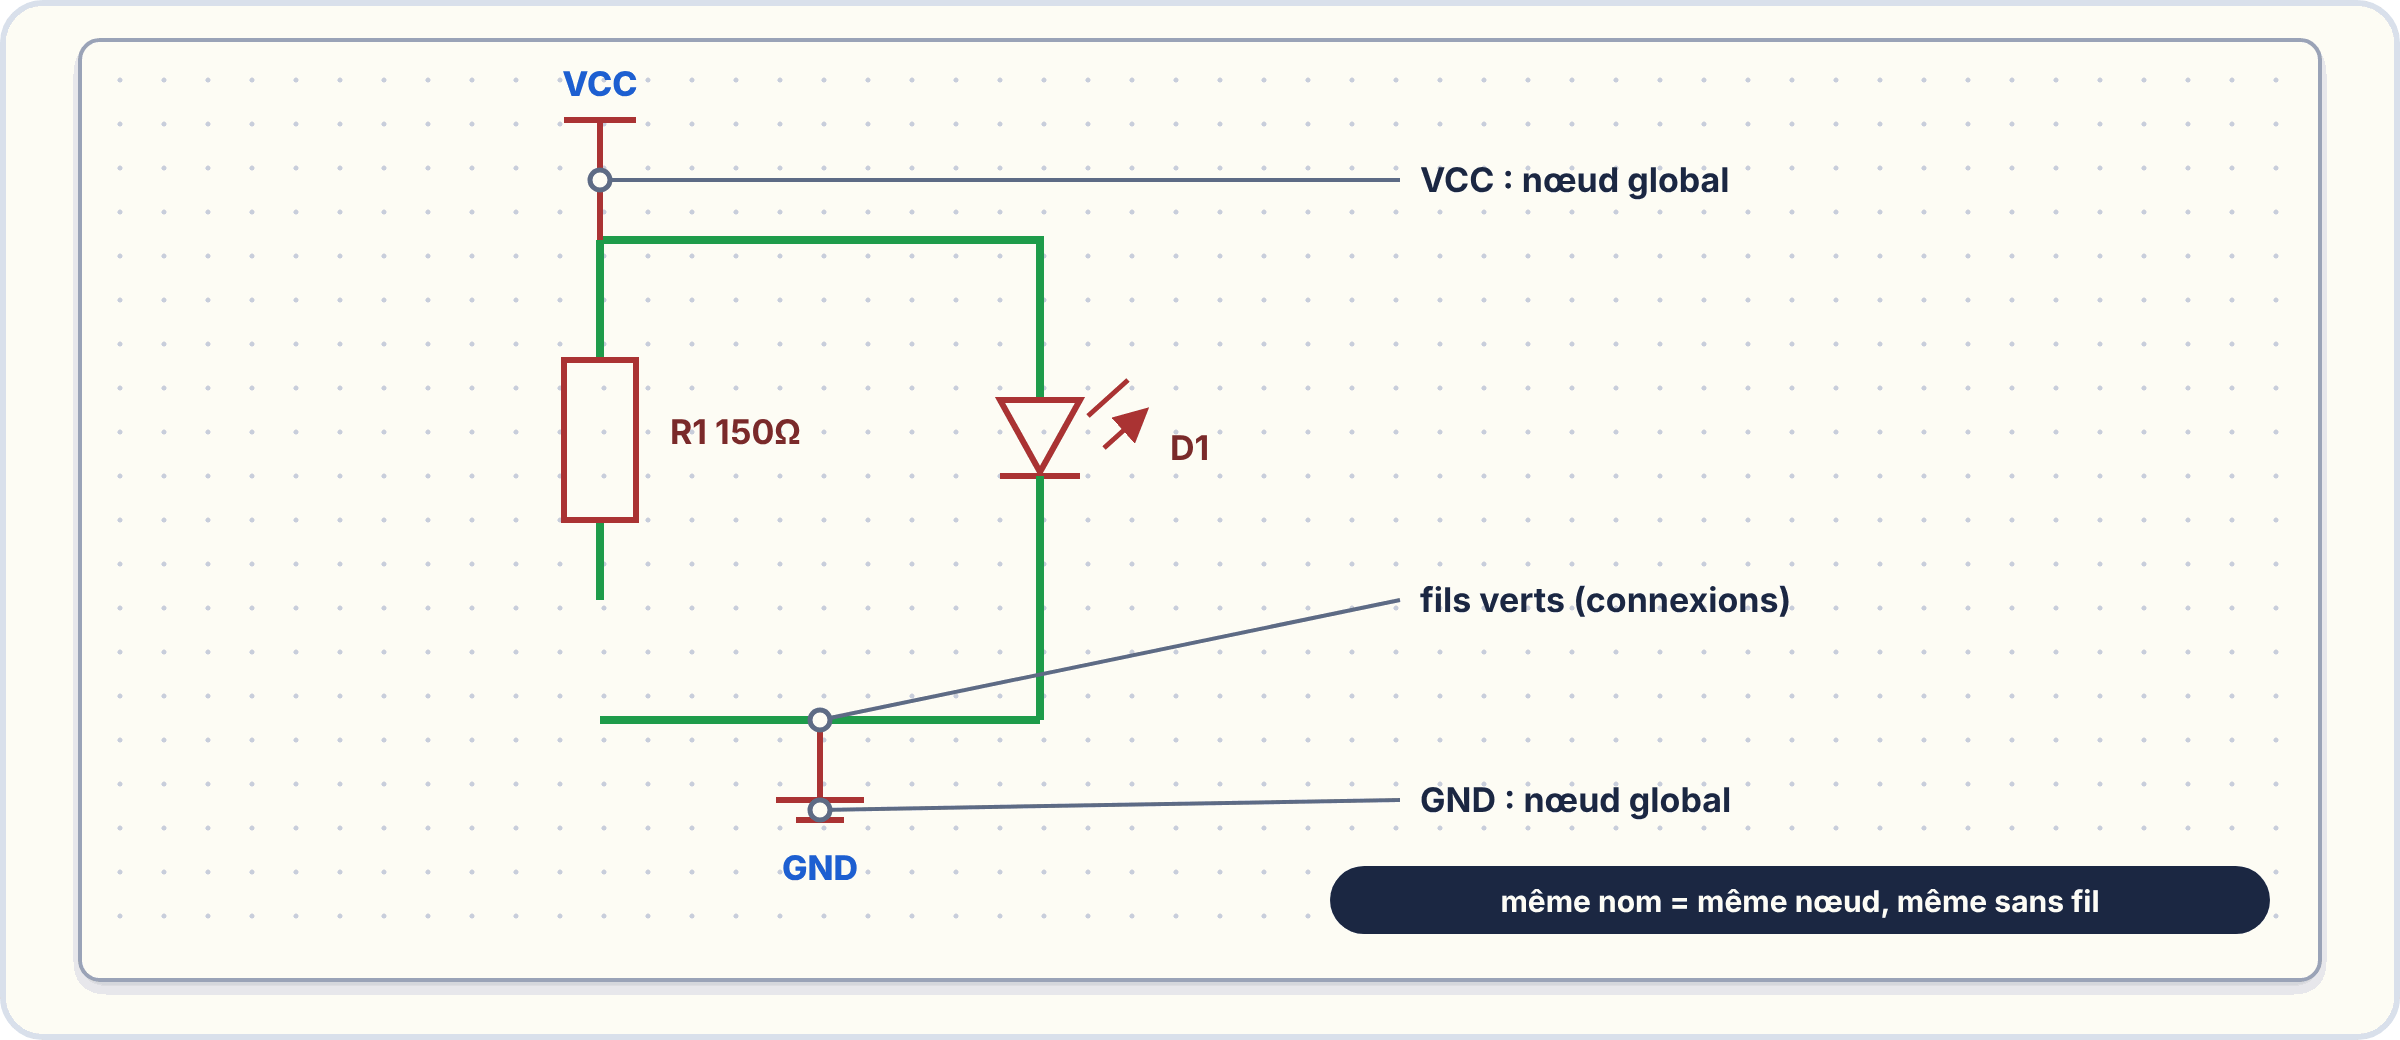
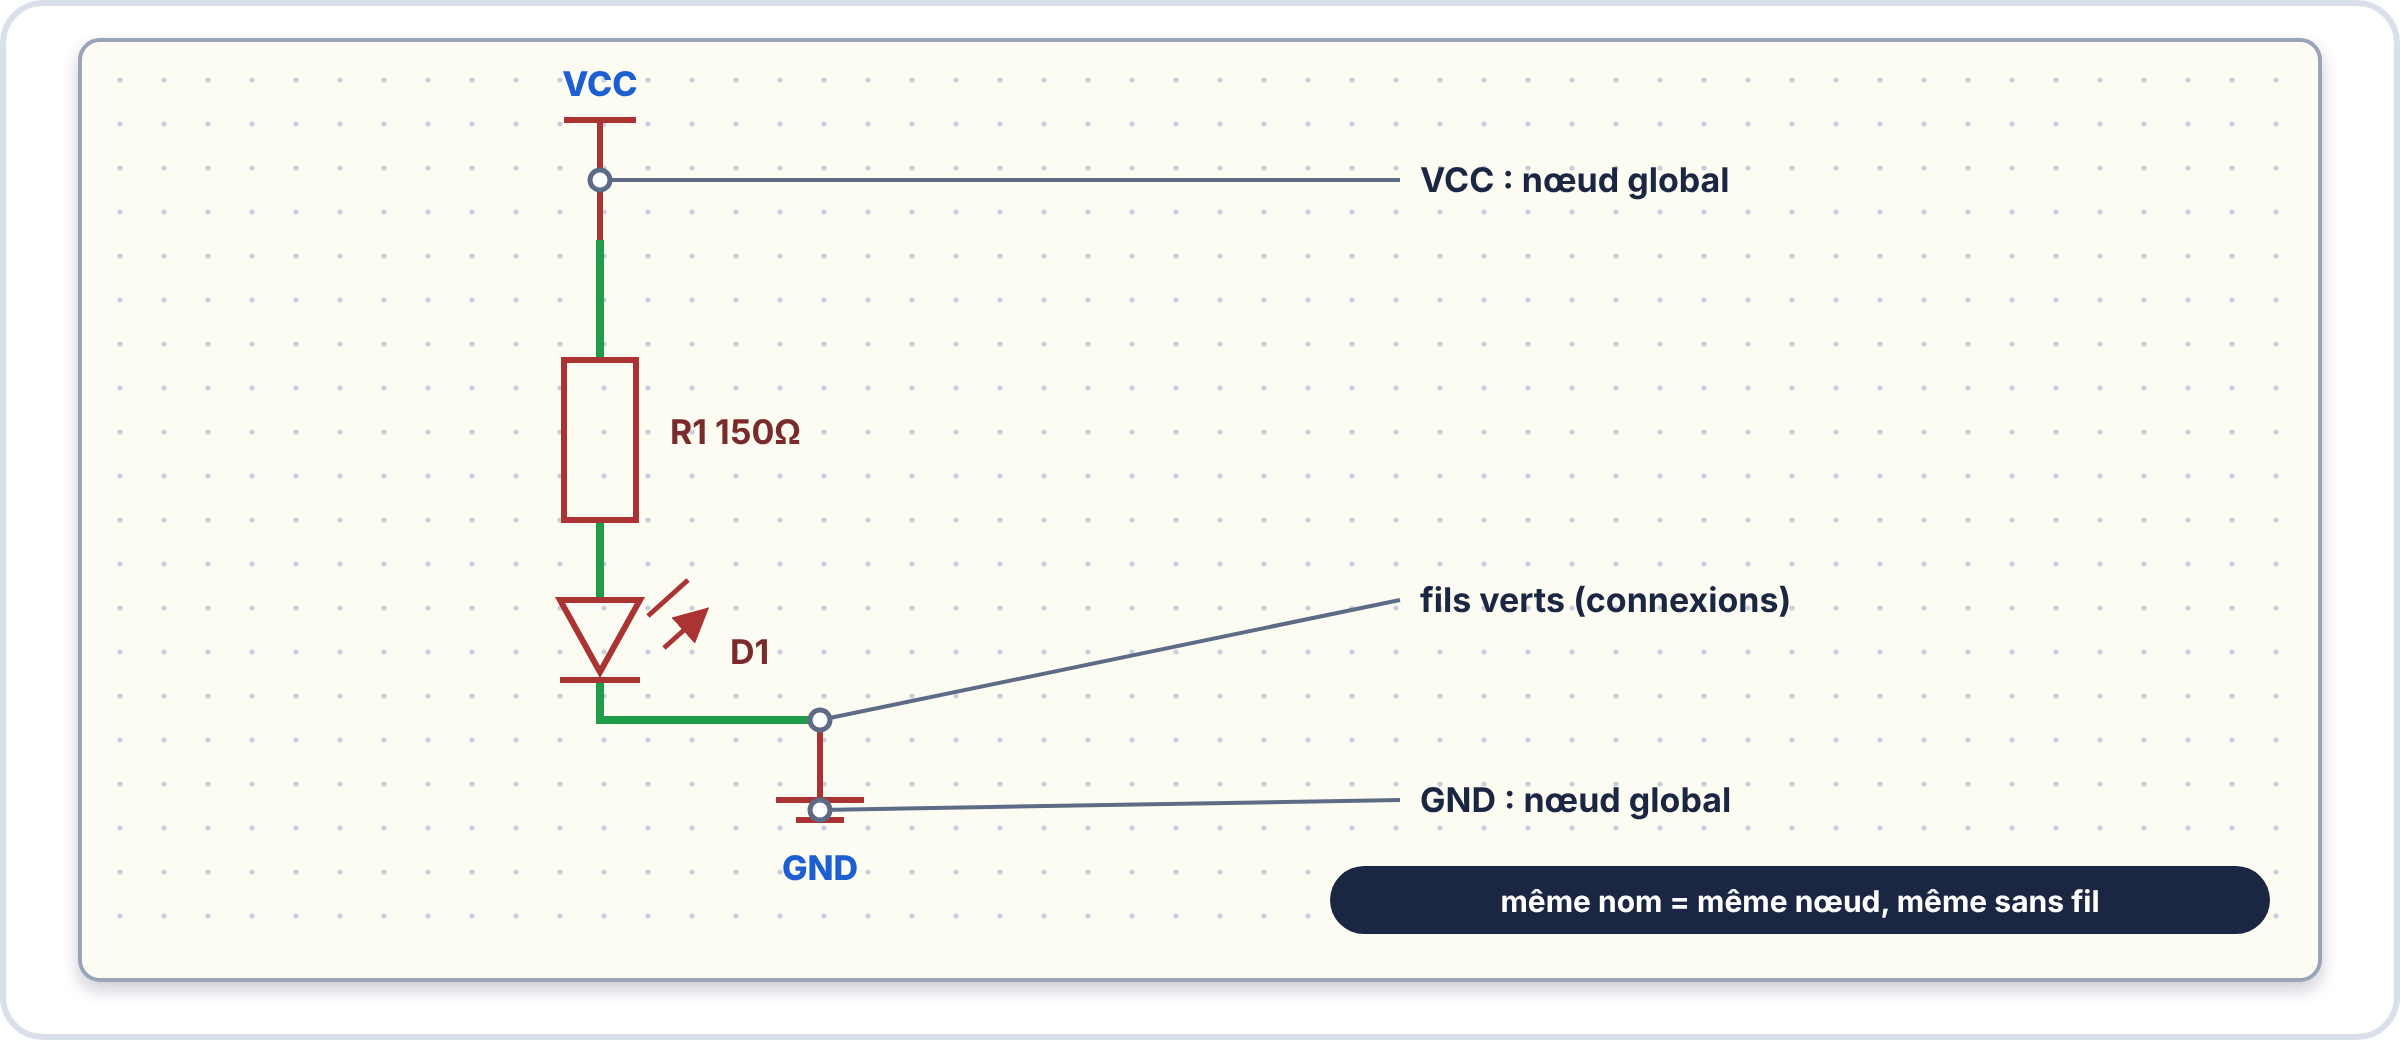
Schéma KiCad (étiquettes globales) : piste coupée corrigée ; R1 et D1 maintenant en série entre VCC et GND
Claude-Session: https://claude.ai/code/session_018Ln2Xo12prChdSPrkdSn9D

Changed region(s): [[0.25, 0.2154, 0.5, 0.6462], [0.2188, 0.5538, 0.3125, 0.6769], [0.3438, 0.6769, 0.4375, 0.7077]]

diff --git a/outils/illustrations-e2/figs_final.py b/outils/illustrations-e2/figs_final.py
@@ -227,10 +227,10 @@ def f_cloudwatch():
 def f_eeschema():
     o = f'<g filter="url(#sh)"><rect x="40" y="20" width="1120" height="470" rx="10" fill="#fdfcf3" stroke="#9aa4b8" stroke-width="2"/></g>' + grid(60, 40, 1080, 430)
     Gc, Rc = "#1f9d4a", "#a33"
-    o += f'<path d="M300,120 V180 M300,260 V300 M300,360 H520 M520,300 V360" fill="none" stroke="{Gc}" stroke-width="4"/><path d="M300,120 H520 V200" fill="none" stroke="{Gc}" stroke-width="4"/><path d="M520,280 V300" stroke="{Gc}" stroke-width="4"/>'
+    o += f'<path d="M300,120 V180 M300,260 V300 M300,340 V360 H410" fill="none" stroke="{Gc}" stroke-width="4"/>'
     o += f'<rect x="282" y="180" width="36" height="80" fill="none" stroke="{Rc}" stroke-width="3"/>' + T(335, 222, "R1  150Ω", 17, 700, "#7a2a2a", "start")
-    o += f'<path d="M500,200 H540 L520,236 Z M500,238 H540" fill="none" stroke="{Rc}" stroke-width="3"/><path d="M544,208 L564,190 M552,224 L572,206" stroke="{Rc}" stroke-width="2.5" marker-end="url(#arr)"/>' + T(585, 230, "D1", 17, 700, "#7a2a2a", "start")
-    o += f'<path d="M520,238 V280" stroke="{Gc}" stroke-width="4"/>' + f'<path d="M300,60 V120 M282,60 H318" stroke="{Rc}" stroke-width="3"/>' + T(300, 48, "VCC", 17, 800, "#1d5fd1") + f'<path d="M410,360 V400 M388,400 H432 M398,410 H422" stroke="{Rc}" stroke-width="3"/>' + T(410, 440, "GND", 17, 800, "#1d5fd1")
+    o += f'<path d="M280,300 H320 L300,336 Z M280,340 H320" fill="none" stroke="{Rc}" stroke-width="3"/><path d="M324,308 L344,290 M332,324 L352,306" stroke="{Rc}" stroke-width="2.5" marker-end="url(#arr)"/>' + T(365, 332, "D1", 17, 700, "#7a2a2a", "start")
+    o += f'<path d="M300,60 V120 M282,60 H318" stroke="{Rc}" stroke-width="3"/>' + T(300, 48, "VCC", 17, 800, "#1d5fd1") + f'<path d="M410,360 V400 M388,400 H432 M398,410 H422" stroke="{Rc}" stroke-width="3"/>' + T(410, 440, "GND", 17, 800, "#1d5fd1")
     o += callout(300, 90, 700, 90, "VCC : nœud global", "start", 17, bold=True) + callout(410, 405, 700, 400, "GND : nœud global", "start", 17, bold=True) + callout(410, 360, 700, 300, "fils verts (connexions)", "start", 17, bold=True)
     o += chip(900, 450, "même nom = même nœud, même sans fil", INK, w=470, size=15)
     return figure(W, 520, o)
